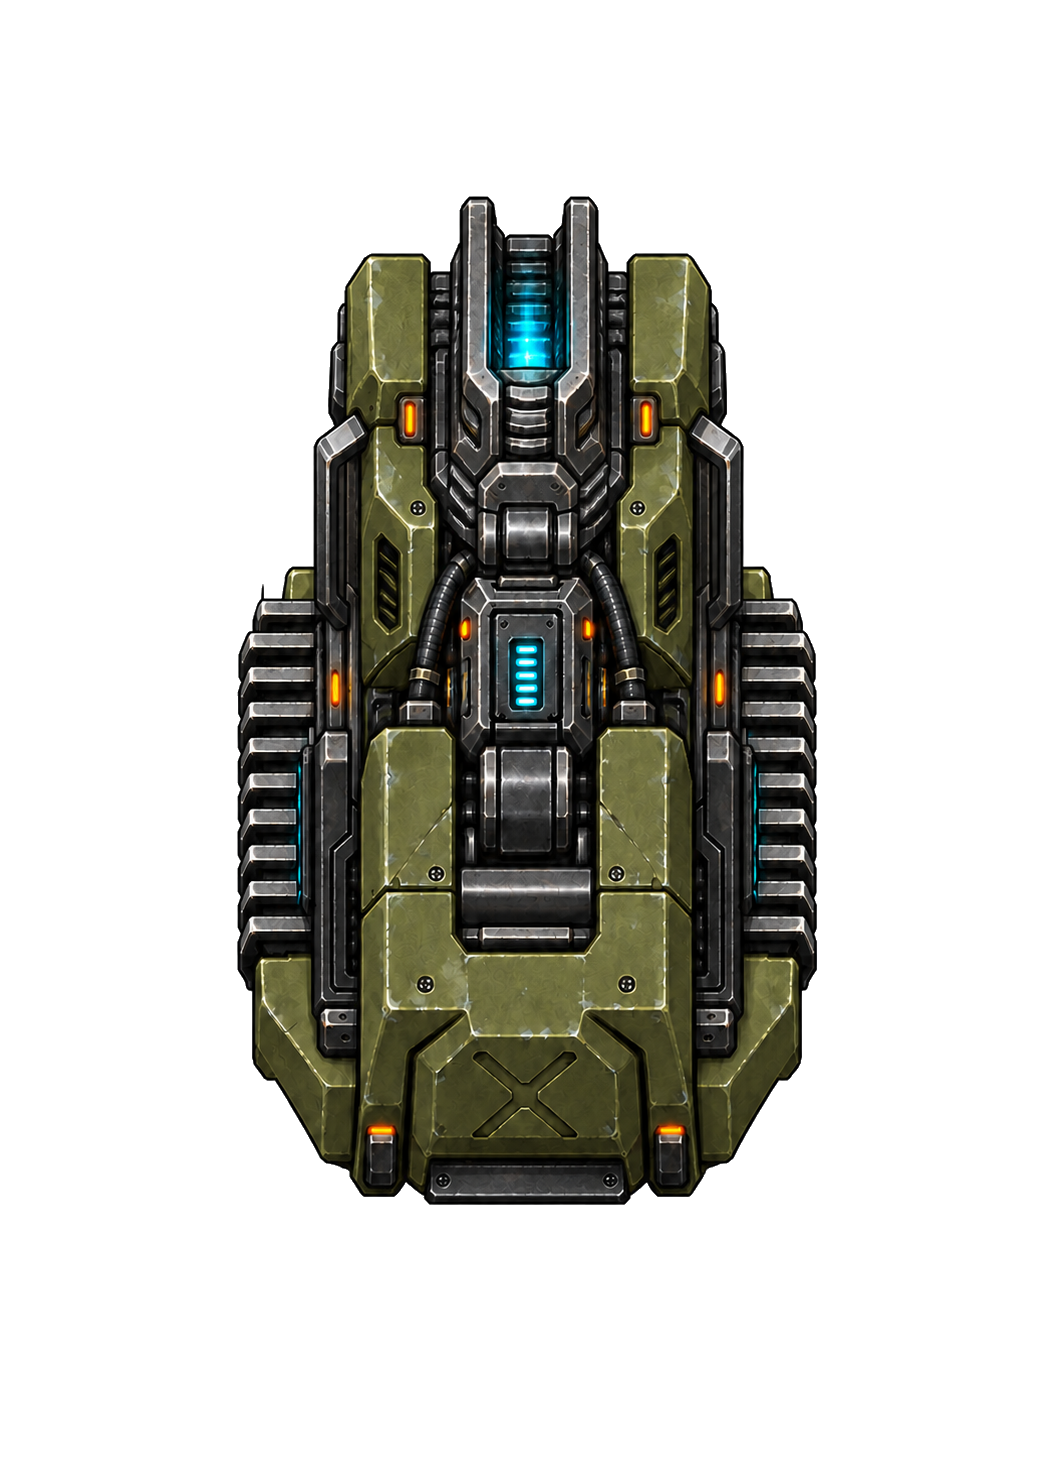
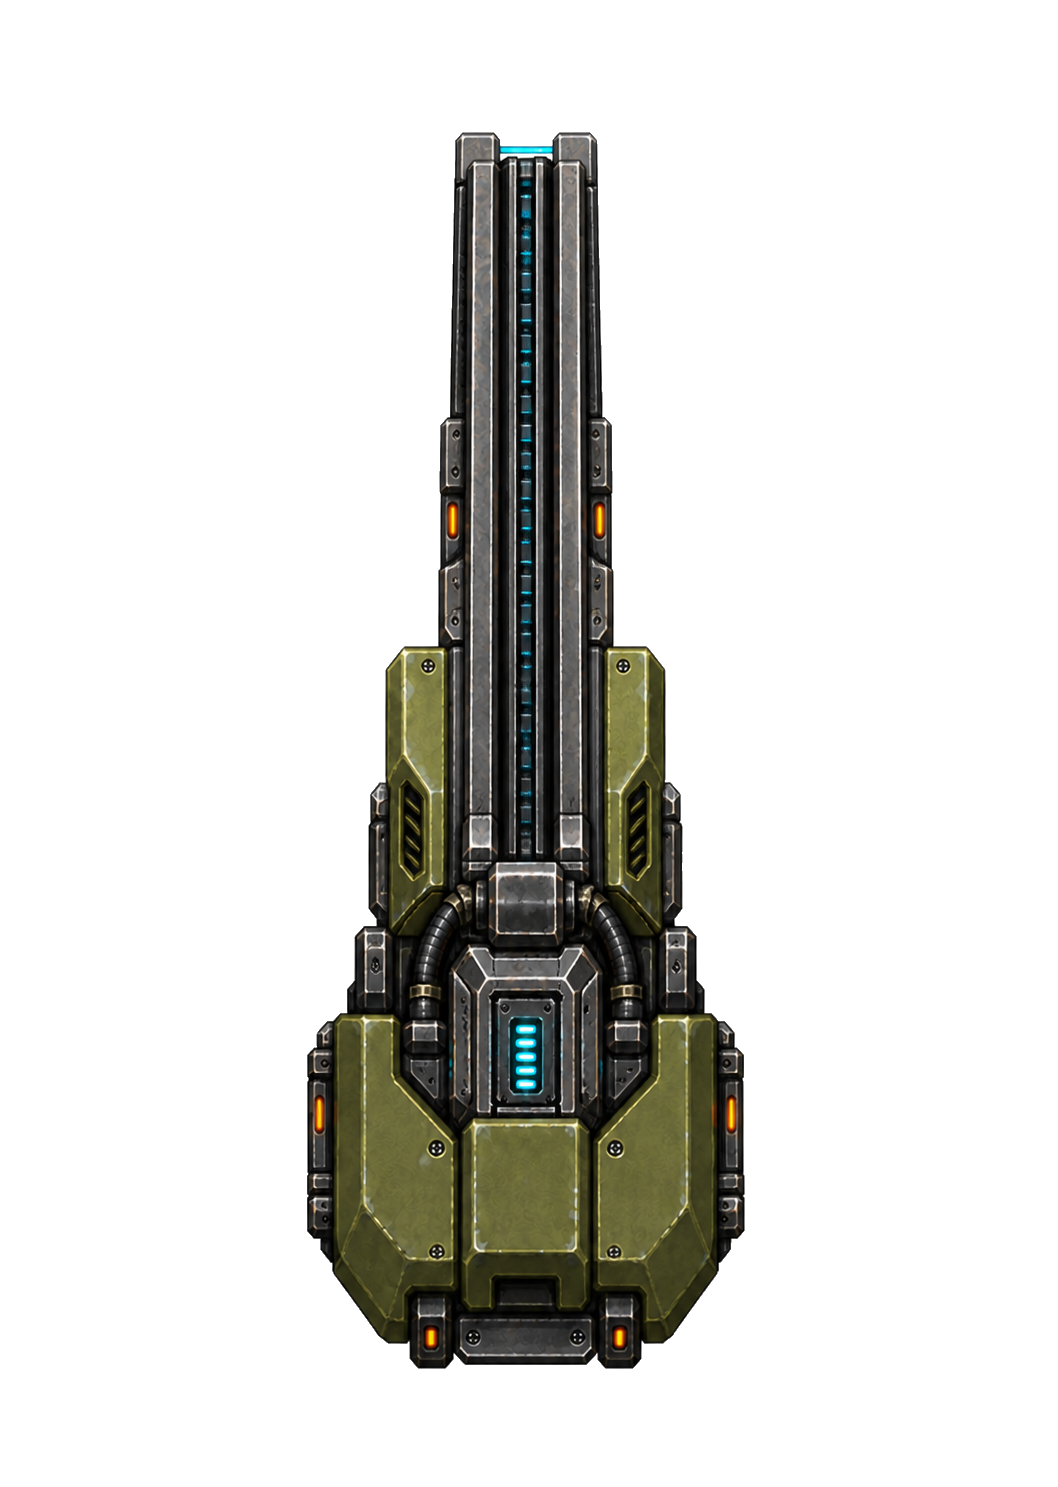
Redesign shoulder laser cannon for top-down read

diff --git a/art-source/mech-modular-topdown/sources/weapon-concepts/PROMPTS.md b/art-source/mech-modular-topdown/sources/weapon-concepts/PROMPTS.md
@@ -7,8 +7,10 @@ mechanical authority yet.
 
 The first draft established the accepted material language but was rejected as
 geometry: its circular emitter read as firing upward out of the battlefield and
-its long body read as an arm cannon. The following prompt sequence produced the
-retained compact, north-firing source.
+its long body read as an arm cannon. A compact revision removed the visible bore,
+but its broad glowing top channel still read as a vertical emitter or reactor.
+The final retained source uses an edge-on muzzle and long in-plane focusing
+rails so the firing direction survives the top-down camera.
 
 ## Initial generation
 
@@ -67,7 +69,32 @@ shoulder canvas would yield an approximately `64x112` module beside the current
 >
 > Avoid: changing the emitter or upper body, adding new components, missile cells, rockets, perspective, isometric view, side view, multiple objects, scenery, checkerboard background, cropping.
 
-ImageGen returned a baked light checker. The retained source was normalized to
-real alpha with `clean_imagegen_backgrounds.py`; no generated background enters
-a future runtime layer.
+## In-plane laser-cannon redesign
 
+The compact pod was rejected because the broad cyan channel still behaved like
+a glowing top surface. The retained redesign used the old source as its material
+reference, the shipped linear cannon only as a perspective reference, and the
+LRM pod only as a rear-footprint reference. The muzzle is deliberately reduced
+to a thin cyan line at the north edge: the camera sees no bore because the bore
+faces away along the battlefield plane.
+
+> Use case: precise-object-edit
+>
+> Asset type: production-source concept for a modular top-down tactical-game weapon sprite
+>
+> Input images: Image 1 is the edit target and supplies the accepted olive armor, gunmetal mechanisms, cyan optics, amber lamps, fine wear/noise, and object lighting. Image 2 is perspective and visual-scale reference only: its barrels lie flat in the battlefield plane and point north; do not copy its six-barrel geometry. Image 3 is footprint and mounting reference only; do not copy missile cells or rockets.
+>
+> Primary request: substantially redesign Image 1 so it reads immediately as a single shoulder-mounted laser cannon, not a reactor, shield generator, engine, or vertical emitter. The forward 55–60% is an unmistakable cannon barrel: two parallel dark-gunmetal focusing spars running north-south and flanking a narrow recessed optical beam guide. The rear 40–45% is a compact armored capacitor housing and broad shoulder mounting plate that can tuck beneath a mech chassis. Keep faction-paintable armor neutral olive-drab.
+>
+> Critical perspective: strict 90-degree zenith orthographic top-down view. The cannon fires horizontally toward the north/top edge, parallel to the battlefield plane. The muzzle faces away from the camera, so no circular bore, aperture face, dish, lens, or glowing front surface is visible. At the extreme northmost tip show only a very thin, almost edge-on horizontal cyan exit slit between the focusing spars. Keep the cyan beam guide narrow, recessed, and mostly dark rather than a broad luminous window.
+>
+> Composition/framing: exactly one isolated vertically oriented module, centered with generous genuinely transparent padding. Compact shoulder-weapon proportions, roughly 1.6–1.8 times as long as wide, with a strong north-south firing axis. The rear mounting cover is broader than the forward barrel, but the silhouette remains clearly a cannon rather than a box.
+>
+> Constraints: preserve Image 1's crisp painted sprite style and material language; genuinely transparent background; clean alpha; no external cast shadow or glow halo; one object only; readable at small gameplay scale; no text, insignia, logo, watermark, scenery, or checkerboard.
+>
+> Avoid: any circular or oval muzzle visible to camera, face-up aperture, upward-pointing barrel, vertical emitter, glowing dish, broad cyan window, reactor-core silhouette, engine pod, missile cells, rockets, six-barrel cluster, rifle stock, hand grips, arm cannon, turret base, mech body, vehicle, perspective, three-quarter, isometric, side view, multiple objects, or cropping.
+
+ImageGen returned a baked light checker in both accepted concept generations.
+The retained source was normalized to real alpha with
+`clean_imagegen_backgrounds.py`; no generated background enters a future runtime
+layer.

diff --git a/art-source/mech-modular-topdown/sources/weapon-material-id/PROMPTS.md b/art-source/mech-modular-topdown/sources/weapon-material-id/PROMPTS.md
@@ -34,14 +34,18 @@ table below.
 | `linear-cannon-variant.png` | `../linear-cannon-concept.png` | Olive housing, side supports, and casing beneath the barrels | Six barrel tubes, mechanisms, vents, bolts, copper/orange pipes and lamps, and outlines |
 | `srm-pod.png` | `../srm-pod.png` | Olive outer casing, top rail, and painted front covers | Missile caps, rack grid and cavities, mechanisms, bolts, lamps, warning marks, and outlines |
 | `lrm-pod.png` | `../lrm-pod.png` | Olive outer casing, top rail, center brace, and painted front covers | Missile caps, rack grid and cavities, mechanisms, bolts, lamps, warning marks, and outlines |
-| `shoulder-laser-cannon.png` | `../weapon-concepts/shoulder-laser-cannon.png` | Olive external armor shells, central plates, outer shoulders, and X-braced rear mounting cover | Cyan emitter and capacitor indicator, focusing rails and collar, gunmetal frame, hinge, conduits, heat sinks, vents, mounting lip, lamps, fasteners, gaps, cavities, and outlines |
+| `shoulder-laser-cannon.png` | `../weapon-concepts/shoulder-laser-cannon.png` | Broad rear shoulder-housing plates, rear center mounting cover, and the paired olive side housings beside the barrel base | Twin long gunmetal focusing spars, recessed cyan beam guide, edge-on exit slit, capacitor indicator, collars, frame, conduits, heat sinks, vents, mounting lip, lamps, fasteners, gaps, cavities, and outlines |
 
-ImageGen returned RGB checker previews rather than real alpha, and its SRM
-canvas was one pixel wider and one pixel shorter than the source. Neither fact
-enters an asset: `derive_faction_weapons.py` reads only magenta dominance,
-resamples that semantic field to the original source canvas, normalizes it with
-the original alpha crop, and takes all shipped pixels from the accepted weapon.
-The retained laser-cannon pass currently classifies 36.3% of its opaque source
-as paintable casing; it is intentionally not registered in the deterministic
-builder until the weapon's runtime name, shoulder layout, and accepted canvas
-are implemented together.
+ImageGen returned RGB checker previews rather than real alpha. Its SRM canvas
+was one pixel wider and one pixel shorter than the source; the redesigned laser
+pass is `1054x1492` against a `1058x1487` source. Neither fact enters an asset:
+`derive_faction_weapons.py` reads only magenta dominance, resamples that semantic
+field to the original source canvas, normalizes it with the original alpha crop,
+and takes all shipped pixels from the accepted weapon.
+The laser-cannon material-ID pass was regenerated after the in-plane barrel
+redesign. Its prompt explicitly protected both focusing spars and the narrow
+cyan optical path while selecting the olive shoulder housing. After resampling
+the semantic field to the source canvas, it classifies 31.3% of the opaque
+source as paintable casing. It is intentionally not registered in the
+deterministic builder until the weapon's runtime name, shoulder layout, and
+accepted canvas are implemented together.

diff --git a/art-source/mech-modular-topdown/AGENTS.md b/art-source/mech-modular-topdown/AGENTS.md
@@ -28,3 +28,15 @@ rules apply to the modular mech raster pipeline in this directory.
   contact sheets at gameplay scale. A visually attractive result that changes
   geometry, registration, or protected hardware is not an acceptable livery.
 
+## Top-down direct-fire concepts
+
+- For a barrel that fires north along the battlefield plane, make the camera see
+  the barrel's top surfaces and only an edge-on muzzle line at the northmost tip.
+  A visible circular aperture points toward the camera, not toward the target.
+- Hiding the bore is insufficient when a broad emissive channel remains on the
+  weapon's top face; that reads as a vertical emitter or reactor. Use long
+  parallel focusing rails and a narrow recessed optical path to carry the
+  horizontal firing axis through the silhouette.
+- Label each ImageGen input by role. A shipped cannon may be a perspective
+  reference and a missile pod a footprint reference without either donating its
+  weapon geometry to the new concept.
